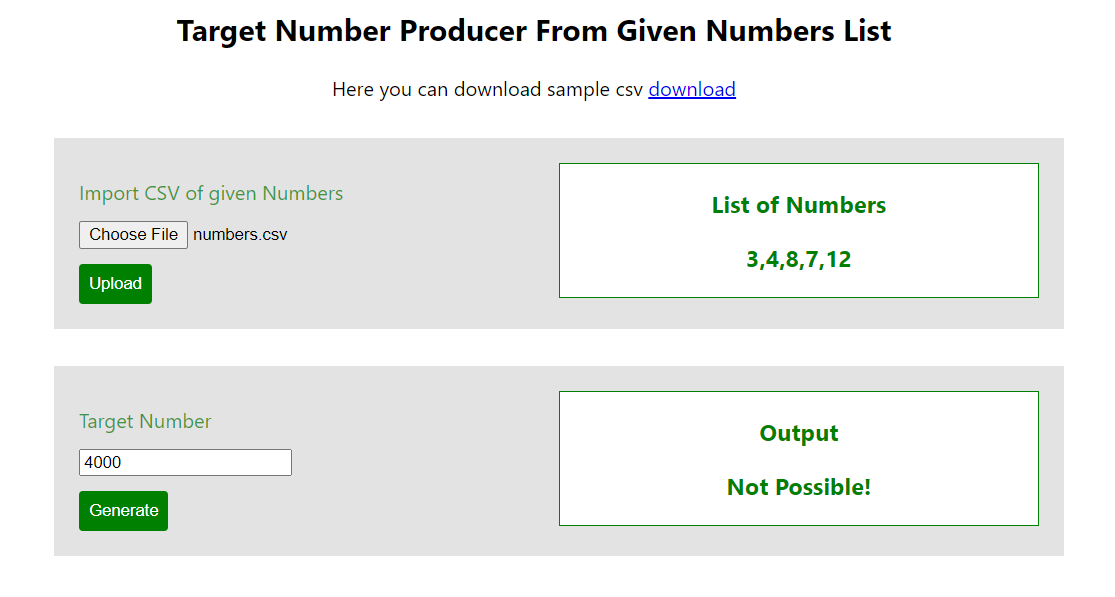
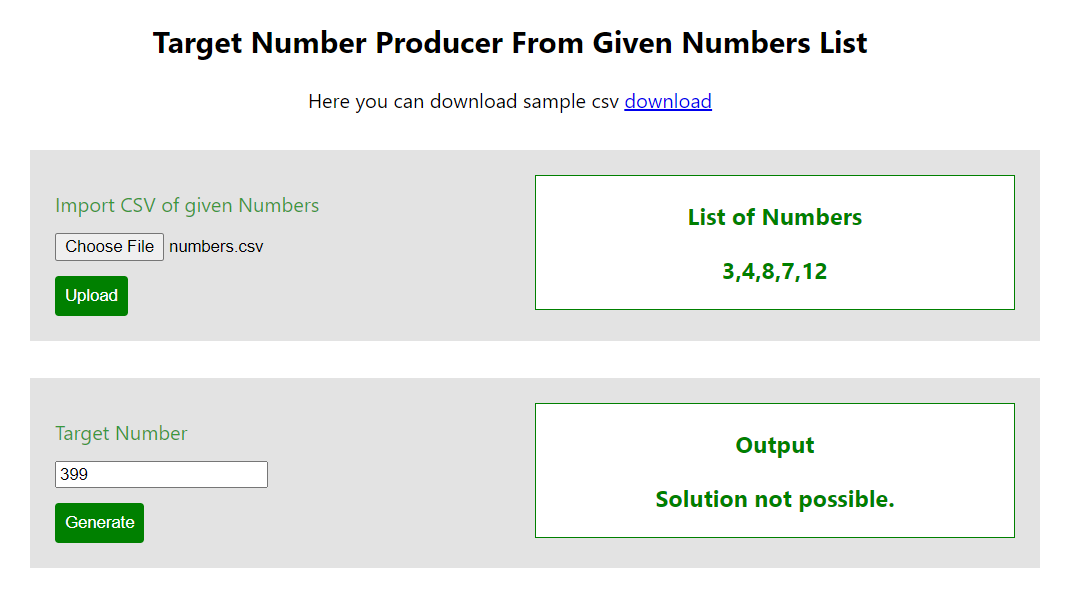
replace algorithm for target number

diff --git a/src/utils/EquationGenerator.js b/src/utils/EquationGenerator.js
@@ -1,0 +1,274 @@
+class Queue {
+    constructor() {
+        this.elements = {};
+        this.head = 0;
+        this.tail = 0;
+    }
+
+    clearQueue() {
+        this.elements = {};
+    }
+
+    enqueue(element) {
+        this.elements[this.tail] = element;
+        this.tail++;
+    }
+    dequeue() {
+        const item = this.elements[this.head];
+        delete this.elements[this.head];
+        this.head++;
+        return item;
+    }
+    peek() {
+        return this.elements[this.head];
+    }
+    get length() {
+        return this.tail - this.head;
+    }
+    get isEmpty() {
+        return this.length === 0;
+    }
+}
+
+class EquationGenerator {
+    constructor(numbers, targetValue) {
+        this.numbers = numbers
+        this.targetValue = targetValue
+        
+        this.solvedKeys = [];
+        // Each number in the list indicates that corresponding value + mask
+        // has been reached using arithmetical operations.
+
+        this.keyToLeftParent = {};
+        // For each solved key (value + mask), there is an entry indicating
+        // result of the expression on the left side of the arithmetic
+        // operator. Missing value indicates that key represents the
+        // raw number (taken from the input list), rather than
+        // the result of a calculation.
+
+        this.keyToRightParent = {};
+        // Same as keyToLeftParent, only indicating the right parent
+        // used to build the expression.
+
+        this.keyToOperator = {};
+        // Indicates arithmetic operator used to build this node
+        // from left and right parent nodes. Missing value for a given key
+        // indicates that key is a raw value taken from input array,
+        // rather than result of an arithmetic operation.
+
+        this.queue = new Queue();
+
+        this.solutionString = "";
+        this.isSolved = false;
+    }
+
+    initialStates() {
+        //resetting generation values
+        this.isSolved = false;
+        this.solvedKeys = [];
+        this.keyToLeftParent = {};
+        this.keyToRightParent = {};
+        this.keyToOperator = {};
+        this.queue.clearQueue();
+        this.solutionString = "";
+    }
+
+    generateAndPrint() {
+        this.generate();
+        this.printSolution();
+        return this.solutionString;
+    }
+
+    generate() {
+        this.initialStates();
+
+        let targetKey = (this.targetValue << this.numbers.length) + (1 << this.numbers.length) - 1;
+        // (value << numbers.Length) represents expression value
+        // (1 << numbers.Length) - 1 represents mask with all bits set to 1,
+        // i.e. mask in which each input number has been used exactly once
+        // to build the expression.
+
+        // Keys (value + mask pairs) that have not been processed yet
+
+        // First step is to initialize the structures:
+        // Add all input values into corresponding array entries and
+        // add them to the queue so that the operation can begin
+
+        for (let i = 0; i < this.numbers.length; i++) {
+
+            let key = (this.numbers[i] << this.numbers.length) + (1 << i);
+
+            this.solvedKeys.push(key);
+            this.queue.enqueue(key);
+        }
+
+        // Now expand entries one at the time until queue is empty,
+        // i.e. until there are no new entries populated.
+        // Additional stopping condition is that target key has been generated,
+        // which indicates that problem has been solved and there is no need to
+        // expand nodes any further.
+
+        while (!this.queue.isEmpty && !this.solvedKeys.includes(targetKey)) {
+
+            let curKey = this.queue.dequeue();
+
+            let curMask = curKey & ((1 << this.numbers.length) - 1);
+            let curValue = curKey >> this.numbers.length;
+            // Now first take a snapshot of all keys that
+            // have been reached because this collection is going to
+            // change during the following operation
+
+
+            let keys = JSON.parse(JSON.stringify(this.solvedKeys));
+            for (let i = 0; i < keys.length; i++) {
+
+                let mask = keys[i] & ((1 << this.numbers.length) - 1);
+                let value = keys[i] >> this.numbers.length;
+                if ((mask & curMask) === 0) { // Masks are disjoint, i.e. two entries do not use
+                    // the same input number twice.
+                    // This is sufficient condition to combine the two entries
+
+                    for (let op = 0; op < 6; op++) {
+
+                        //perform current arithmetic operation
+                        let { newValue, opSign } = this.performOperations(value, curValue, op)
+
+                        //validate value and push in dictionaries
+                        this.validateAndPushValueWithSign(newValue, opSign, op, curMask, curKey, mask, keys[i])
+                    }
+                }
+            }
+        }
+        if (this.solvedKeys.includes(targetKey)) {
+            this.isSolved = true;
+        }
+    }
+
+    printSolution() {
+        if (!this.isSolved) {
+            this.solutionString = "Solution not possible.";
+            return false;
+        }
+
+        //success case if found the expression
+        let targetKey = (this.targetValue << this.numbers.length) + (1 << this.numbers.length) - 1;
+        this.solutionString = "";
+        this.printExpression(targetKey, this.numbers.length);
+        return this.solutionString;
+    }
+
+    printExpression(key, numbersCount) {
+
+        if (typeof this.keyToOperator[key] == 'undefined') {
+            this.solutionString += (key >> numbersCount);
+        }
+        else {
+            this.solutionString += "(";
+            // Recursively print the left operand
+            this.printExpression(
+                this.keyToLeftParent[key], this.numbers.length);
+
+            // Then print the operation sign
+            this.solutionString += this.keyToOperator[key];
+
+            // Finally, print the right operand
+            this.printExpression(
+                this.keyToRightParent[key], this.numbers.length);
+
+            this.solutionString += ")";
+
+        }
+    }
+
+    performOperations(value, curValue, op) {
+        let opSign = '\0';
+        let newValue = 0;
+
+        switch (op) {
+            case 0: // Addition
+                newValue = curValue + value;
+                opSign = '+';
+                break;
+            case 1: // Subtraction - another value subtracted from current
+                newValue = curValue - value;
+                opSign = '-';
+                break;
+            case 2: // Subtraction - current value subtracted from another
+                newValue = value - curValue;
+                opSign = '-';
+                break;
+            case 3: // Multiplication
+                newValue = curValue * value;
+                opSign = '*';
+                break;
+            case 4: // Division - current divided by another
+                newValue = -1;  // Indicates failure to divide
+                if (value !== 0 && curValue % value === 0)
+                    newValue = curValue / value;
+                opSign = '';
+                break;
+            case 5: // Division - other value divided by current
+                newValue = -1;  // Indicates failure to divide
+                if (curValue !== 0 && value % curValue === 0)
+                    newValue = value / curValue;
+                opSign = '';
+                break;
+            default:
+                opSign = '\0';
+                newValue = 0;
+        }
+
+        return { newValue, opSign };
+    }
+
+    validateAndPushValueWithSign(newValue, opSign, opIndex, curMask, curKey, mask, current_key_value) {
+
+        if (newValue >= 0) {
+            // Ignore negative values - they can always be created
+            // the other way around, by subtracting them
+            // from a larger value so that positive value is reached.
+
+            let newMask = (curMask | mask);
+            // Combine the masks to indicate that all input numbers
+            // from both operands have been used to produce
+            // the resulting expression
+
+            let newKey = (newValue << this.numbers.length) + newMask;
+            if (!this.solvedKeys.includes(newKey)) {
+                // We have reached a new entry.
+                // This expression should now be added
+                // to data structures and processed further
+                // in the following steps.
+
+                // Populate entries that describe newly created expression
+                this.solvedKeys.push(newKey);
+
+                if (opIndex === 2 || opIndex === 5) {
+                    // Special cases - antireflexive operations
+                    // with interchanged operands
+                    this.keyToLeftParent[newKey] = current_key_value;
+                    this.keyToRightParent[newKey] = curKey;
+                }
+                else {
+                    this.keyToLeftParent[newKey] = curKey;
+                    this.keyToRightParent[newKey] = current_key_value;
+                }
+
+                this.keyToOperator[newKey] = opSign;
+
+                // Add expression to list of reachable expressions
+                this.solvedKeys.push(newKey);
+
+                // Add expression to the queue for further expansion
+                this.queue.enqueue(newKey);
+
+            }
+
+        }
+    }
+}
+
+// const eqGenerator = new EquationGenerator([3, 4, 7, 8, 12], 532);
+// console.log(eqGenerator.generateAndPrint());
+
+export default EquationGenerator;

diff --git a/src/components/targetNumberProducer/index.js b/src/components/targetNumberProducer/index.js
@@ -6,10 +6,10 @@ import numbers from './../../numbers.csv';
 
 function TargetNumberProducer() {
     const [array, setArray] = useState([]);
-    const [isReachable, setIsReachable] = useState('');
+    const [isGenerated, setIsGenerated] = useState('');
 
     useEffect(() => {
-        setIsReachable("");
+        setIsGenerated("");
     }, [array]);
 
     return (
@@ -21,8 +21,8 @@ function TargetNumberProducer() {
                 <OutputBox title="List of Numbers" displayText={array.toString(",")} />   
             </div>
             <div className='card'>
-                <ProduceTarget numbers={array} setIsReachable={setIsReachable} />
-                <OutputBox title="Output" displayText={isReachable} />   
+                <ProduceTarget numbers={array} setIsGenerated={setIsGenerated} />
+                <OutputBox title="Output" displayText={isGenerated} />   
             </div>
         </div>
     );

diff --git a/src/components/targetNumberProducer/produceTarget.js b/src/components/targetNumberProducer/produceTarget.js
@@ -1,5 +1,5 @@
 import React, { useState } from "react";
-import IsReachable from "../../utils/IsReachable";
+import EquationGenerator from "../../utils/EquationGenerator";
 
 function ProduceTarget(props) {
     const [targetNumber, setTargetNumber] = useState();
@@ -12,9 +12,9 @@ function ProduceTarget(props) {
         e.preventDefault();
         if (props.numbers.length === 0) return alert("Please import file for numbers");
         if (targetNumber > 0) {
-            const isReachable = IsReachable(props.numbers, targetNumber);
-            let displayText = isReachable ? "Number Produced." : "Not Possible!";
-            props.setIsReachable(displayText);
+            const eqGenerator = new EquationGenerator(props.numbers, targetNumber);
+            let displayText = eqGenerator.generateAndPrint();
+            props.setIsGenerated(displayText);
         }
     };
 

diff --git a/README.md b/README.md
@@ -18,11 +18,11 @@ It correctly bundles React in production mode and optimizes the build for the be
 ### `Interface Screenshots`
 
 #### Code Structure
-![ScreenShot](/screenshots/code_structure.png)
-
 ![ScreenShot](/screenshots/app.png)
 
 ![ScreenShot](/screenshots/targetApp.png)
+
+![ScreenShot](/screenshots/targetProducer.png)
 
 #### Display
 ![ScreenShot](/screenshots/app_display.png)
